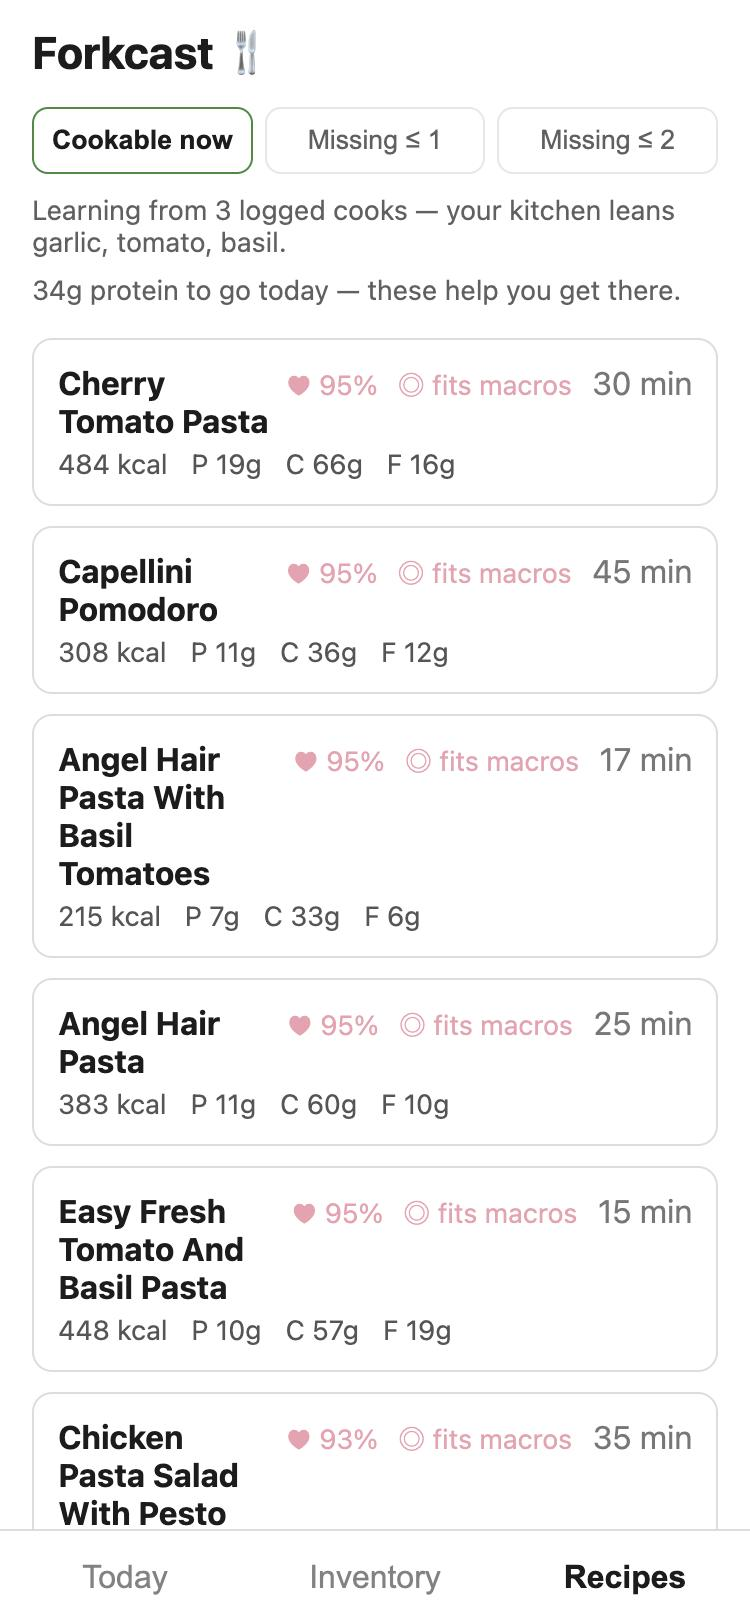
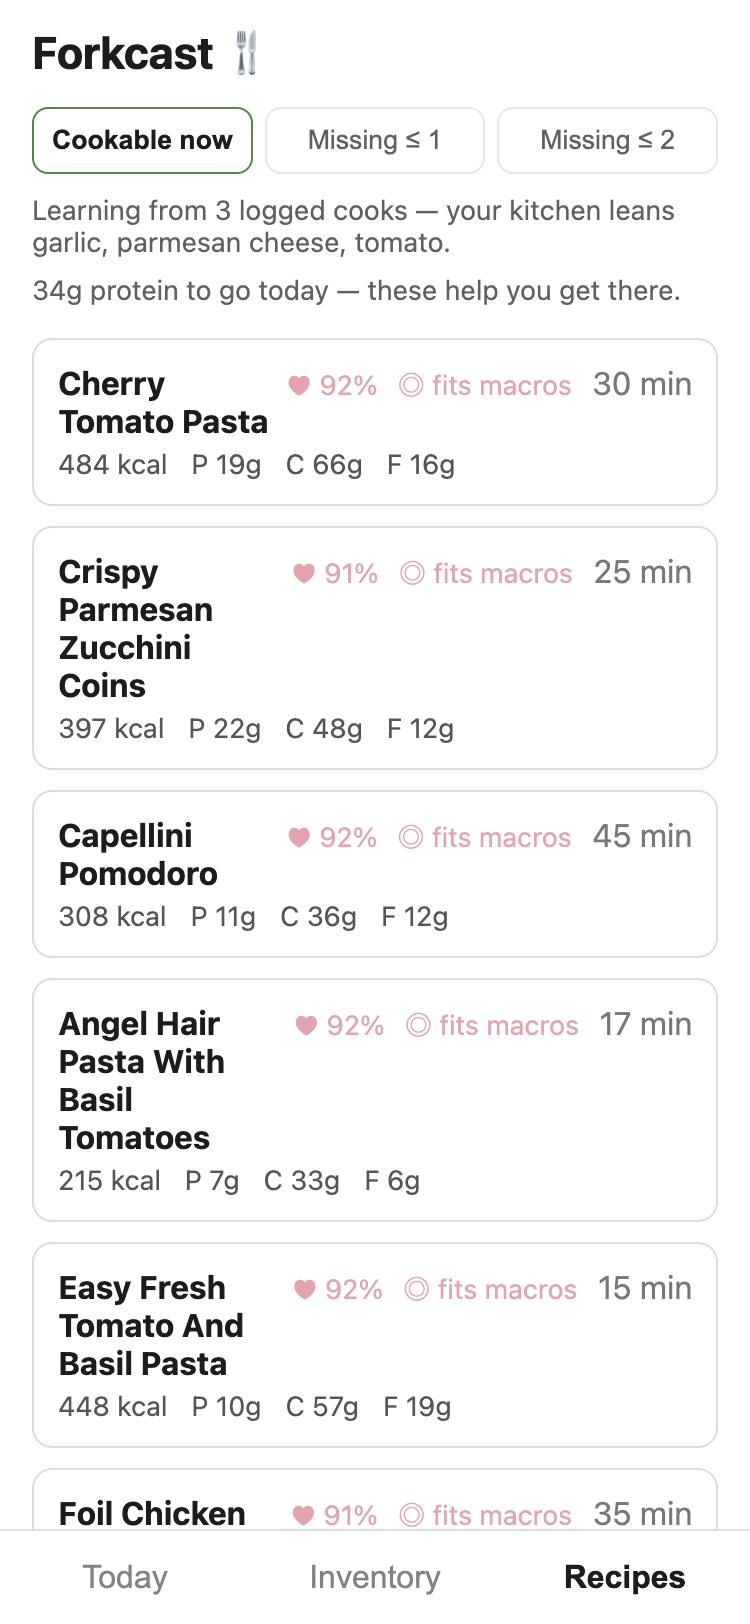
Retake the feed and shopping screenshots on the D27 corpus
The old feed showed Chicken Pasta Salad With Pesto as cookable now,
because "basil pesto" matched basil, the error D27 fixes. On
corpus-20261114-d27 it drops out, and the "Worth buying" basket is
now yeast 196, bread +131, onion +107 (434 together, was 480).

diff --git a/README.md b/README.md
@@ -13,8 +13,8 @@ logic are built here.
 
 | Today | Recipe feed | Recipe detail | Worth buying |
 |---|---|---|---|
-| <img src="docs/screenshots/today.jpg" width="200" alt="Today: calorie and macro progress against targets, with today's logged meals and their ratings"> | <img src="docs/screenshots/recipes.jpg" width="200" alt="Recipe feed: cookable recipes with taste match, a fits-macros badge and a protein-to-go hint"> | <img src="docs/screenshots/recipe.jpg" width="200" alt="Recipe detail: the recipe's own ingredient wording, ticked against the inventory, lemon suggested for the missing lime, staples shown as pantry"> | <img src="docs/screenshots/shopping.jpg" width="200" alt="Worth buying: yeast unlocks 199 recipes, then onion 137 more, then bread 144 more"> |
-| Macros against Mifflin-St Jeor targets | Ranked by taste and by what fits today's remaining macros | Ingredients you have are ticked; lemon stands in for lime | Three purchases that unlock 480 more recipes |
+| <img src="docs/screenshots/today.jpg" width="200" alt="Today: calorie and macro progress against targets, with today's logged meals and their ratings"> | <img src="docs/screenshots/recipes.jpg" width="200" alt="Recipe feed: cookable recipes with taste match, a fits-macros badge and a protein-to-go hint"> | <img src="docs/screenshots/recipe.jpg" width="200" alt="Recipe detail: the recipe's own ingredient wording, ticked against the inventory, lemon suggested for the missing lime, staples shown as pantry"> | <img src="docs/screenshots/shopping.jpg" width="200" alt="Worth buying: yeast unlocks 196 recipes, then bread 131 more, then onion 107 more"> |
+| Macros against Mifflin-St Jeor targets | Ranked by taste and by what fits today's remaining macros | Ingredients you have are ticked; lemon stands in for lime | Three purchases that unlock 434 more recipes |
 
 > **The UI is a working first version, not a finished design.** It shows the
 > engine behind it (ranking, substitutions, macro steering), and a visual polish
